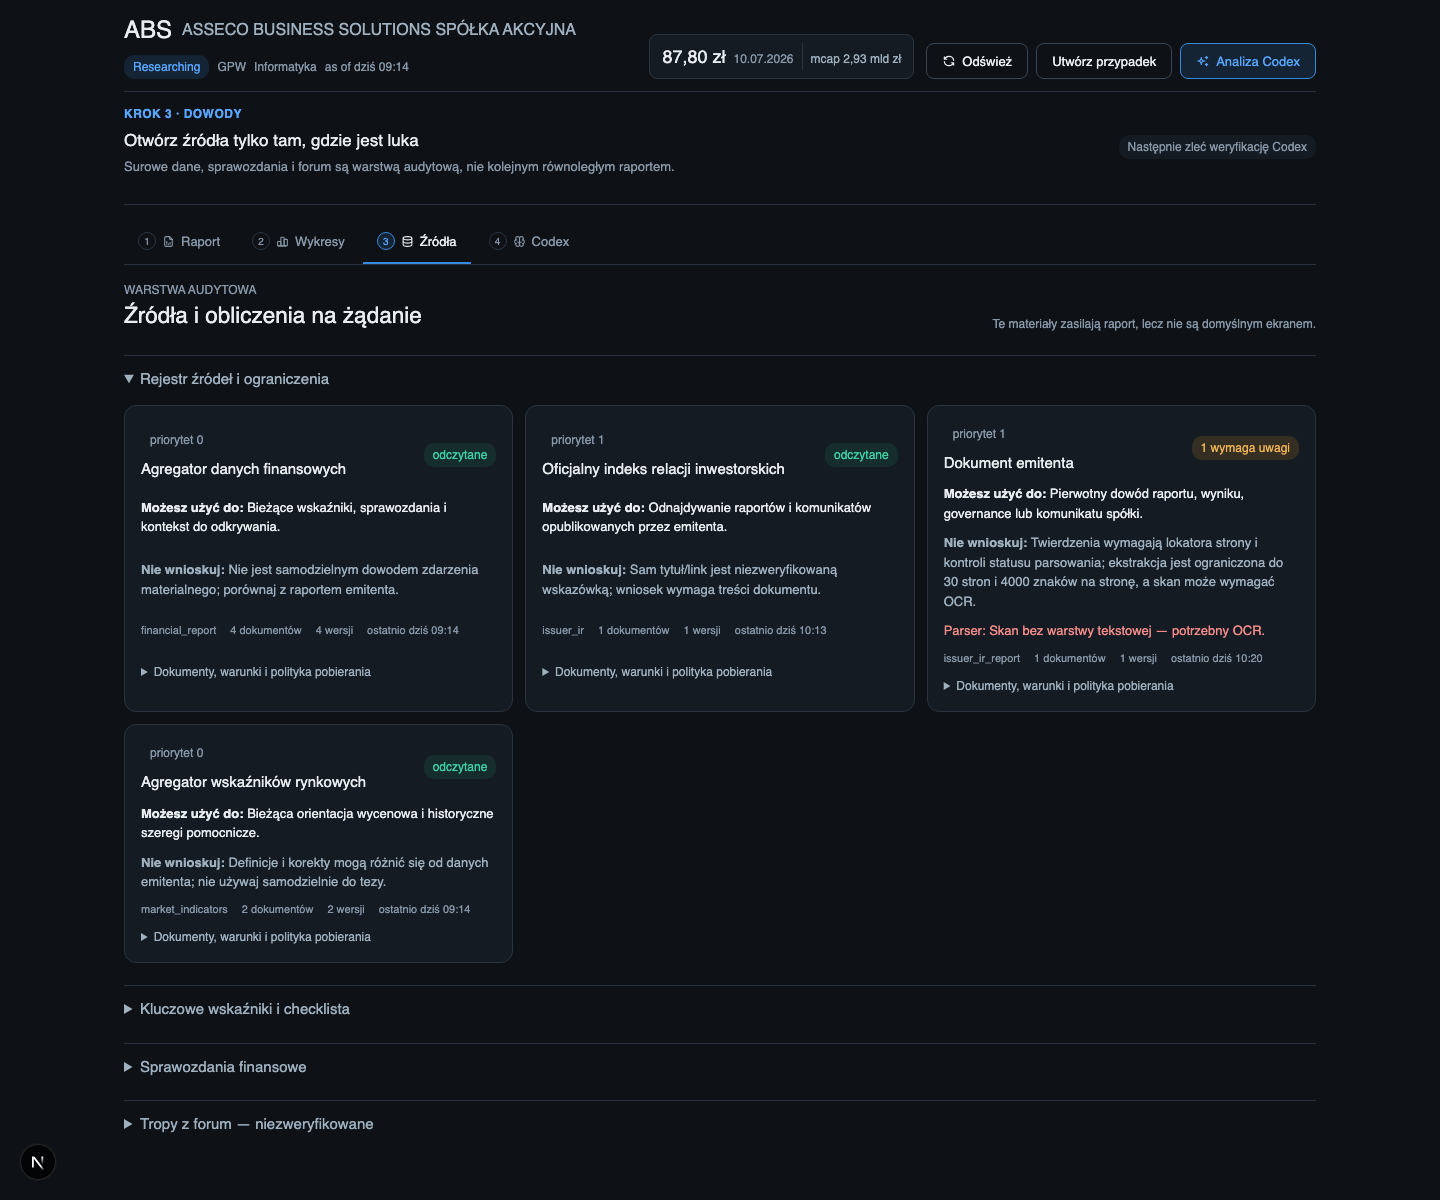
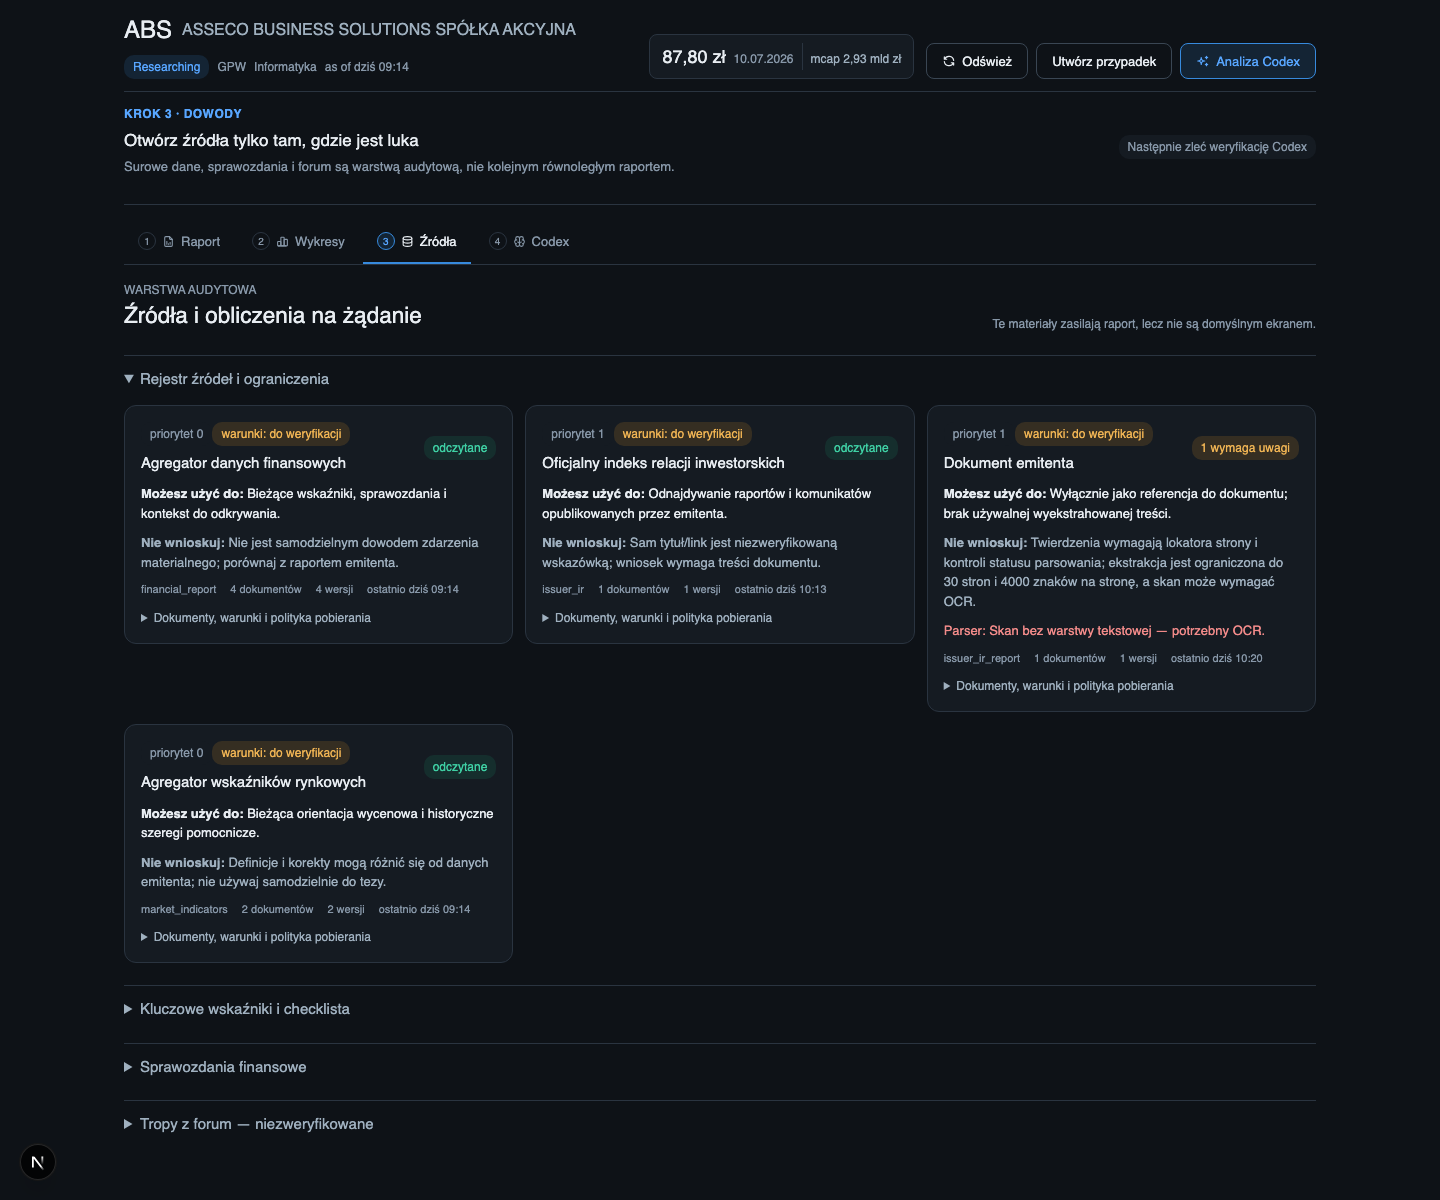
Close issuer evidence verifier gaps

diff --git a/frontend/src/components/EvidenceSourcesPanel.tsx b/frontend/src/components/EvidenceSourcesPanel.tsx
@@ -51,7 +51,7 @@ export default function EvidenceSourcesPanel({ ticker }: { ticker: string }) {
     <div className="evidence-source-grid">
       {groups.map(({ quality, documents }) => {
         const failedDocuments = documents.filter(
-          (document) => ["failed", "needs_ocr", "partial"].includes(document.latest_parse_status),
+          (document) => document.latest_parse_status !== "parsed",
         );
         const newest = [...documents].sort((left, right) =>
           (right.latest_version_at ?? "").localeCompare(left.latest_version_at ?? ""),
@@ -61,6 +61,7 @@ export default function EvidenceSourcesPanel({ ticker }: { ticker: string }) {
             <div className="spread">
               <div>
                 <span className="badge muted">priorytet {quality.priority ?? "?"}</span>
+                <span className="badge warning">warunki: do weryfikacji</span>
                 <h3>{quality.label}</h3>
               </div>
               <span className={failedDocuments.length ? "badge warning" : "badge success"}>

diff --git a/backend/tests/test_issuer_ir.py b/backend/tests/test_issuer_ir.py
@@ -10,6 +10,7 @@ def public_issuer_hosts(monkeypatch):
     from app.scrapers import issuer_ir
 
     monkeypatch.setattr(issuer_ir, "_host_resolves_public", lambda _url: True)
+    monkeypatch.setattr(issuer_ir, "_peer_is_public", lambda _response: True)
 
 
 def _seed_report_link(db, report_url: str):
@@ -536,3 +537,98 @@ def test_unrelated_source_fact_cannot_authorize_report_fetch(db):
 
     with pytest.raises(ValueError, match="not present"):
         issuer_ir.ingest_issuer_ir_report(db, "ABS", report_url)
+
+
+def test_wrong_issuer_scope_cannot_authorize_report_fetch(db):
+    from app.db.models import Company
+    from app.scrapers import issuer_ir
+    from app.services import evidence
+
+    report_url = "https://assecobs.pl/reports/wrong-scope.pdf"
+    company = Company(ticker="ABS", name="ASSECO BUSINESS SOLUTIONS SA")
+    db.add(company)
+    db.flush()
+    wrong_scope = evidence.record_document_version(
+        db,
+        company,
+        source_name="ABS issuer IR",
+        source_type="issuer_ir",
+        scope_key="other-index",
+        requested_url=issuer_ir.ISSUER_IR_SOURCES["ABS"],
+        effective_url=issuer_ir.ISSUER_IR_SOURCES["ABS"],
+        content=b"wrong scope",
+        text="wrong scope",
+        response_status=200,
+        mime_type="text/html",
+    )
+    evidence.mark_parse_result(wrong_scope.version, success=True)
+    evidence.record_text_fact(
+        db,
+        company,
+        wrong_scope.version,
+        fact_type="issuer_ir_link",
+        fact_key="issuer_ir.periodic_report.wrong_scope",
+        text="Wrong scope",
+        locator={"url": report_url},
+        verification_state="unverified",
+        extractor_version=issuer_ir.EXTRACTOR_VERSION,
+    )
+    db.commit()
+
+    with pytest.raises(ValueError, match="not present"):
+        issuer_ir.ingest_issuer_ir_report(db, "ABS", report_url)
+
+
+def test_forced_reprocessing_does_not_downgrade_parsed_version(db, monkeypatch):
+    from app.db.models import DocumentVersion
+    from app.scrapers import issuer_ir
+
+    report_url = "https://assecobs.pl/reports/stable.pdf"
+    _seed_report_link(db, report_url)
+    response = FakeResponse("", 200)
+    response.url = report_url
+    response.content = b"%PDF-stable"
+    monkeypatch.setattr(issuer_ir.http, "fetch", lambda _url, **_kwargs: response)
+    monkeypatch.setattr(issuer_ir, "extract_pdf_pages", lambda _content: ["Stable claim"])
+    first = issuer_ir.ingest_issuer_ir_report(db, "ABS", report_url)
+    version = db.get(DocumentVersion, first["document_version_id"])
+    assert version.parse_status == "parsed"
+    original_parser = version.parser_version
+
+    monkeypatch.setattr(issuer_ir, "extract_pdf_pages", lambda _content: [""])
+    second = issuer_ir.ingest_issuer_ir_report(db, "ABS", report_url, force=True)
+
+    db.refresh(version)
+    assert second["status"] == "cached"
+    assert version.parse_status == "parsed"
+    assert version.parser_version == original_parser
+
+
+def test_actual_loopback_peer_is_rejected_before_body_read(db, monkeypatch):
+    from app.scrapers import issuer_ir
+
+    report_url = "https://assecobs.pl/reports/rebound.pdf"
+    _seed_report_link(db, report_url)
+    response = FakeResponse("", 200)
+    response.url = report_url
+    body_read = []
+    response.iter_content = lambda **_kwargs: body_read.append(True) or iter((b"%PDF",))
+    monkeypatch.setattr(issuer_ir.http, "fetch", lambda _url, **_kwargs: response)
+    monkeypatch.setattr(issuer_ir, "_peer_is_public", lambda _response: False)
+
+    result = issuer_ir.ingest_issuer_ir_report(db, "ABS", report_url)
+
+    assert result["status"] == "rejected"
+    assert "peer" in result["error"].lower()
+    assert body_read == []
+
+
+def test_network_target_checks_reject_private_or_mixed_addresses():
+    from app.scrapers import issuer_ir
+
+    assert issuer_ir._addresses_are_public({"8.8.8.8", "127.0.0.1"}) is False
+    assert issuer_ir._addresses_are_public({"169.254.1.1"}) is False
+    assert issuer_ir._addresses_are_public({"8.8.8.8"}) is True
+
+    assert issuer_ir._address_is_public("127.0.0.1") is False
+    assert issuer_ir._address_is_public("8.8.8.8") is True

diff --git a/backend/app/scrapers/issuer_ir.py b/backend/app/scrapers/issuer_ir.py
@@ -346,6 +346,15 @@ def ingest_issuer_ir_report(
         fetched_at=fetch_log.fetched_at,
     )
     recorded.document.title = source_fact.text_value
+    if not recorded.version_created and recorded.version.parse_status != "pending":
+        fetch_log.document_version_id = recorded.version.id
+        db.commit()
+        return _report_version_result(
+            ticker,
+            report_url,
+            recorded.document,
+            recorded.version,
+        )
     if parse_error is not None:
         mark_parse_result(recorded.version, success=False, error=parse_error[:1000])
         fetch_log.document_version_id = recorded.version.id
@@ -441,6 +450,9 @@ def _issuer_link_fact(db: Session, company: Company, report_url: str) -> Fact | 
             Fact.extractor_version == EXTRACTOR_VERSION,
             DocumentVersion.parse_status == "parsed",
             SourceDocument.source_type == "issuer_ir",
+            SourceDocument.scope_key == "reports-index",
+            SourceDocument.company_id == company.id,
+            SourceDocument.company_ticker == company.ticker,
         )
     ).all()
     return next(
@@ -483,7 +495,15 @@ def _host_resolves_public(url: str) -> bool:
         }
     except socket.gaierror:
         return False
-    return bool(addresses) and all(ipaddress.ip_address(value).is_global for value in addresses)
+    return _addresses_are_public(addresses)
+
+
+def _addresses_are_public(addresses: set[str]) -> bool:
+    return bool(addresses) and all(_address_is_public(value) for value in addresses)
+
+
+def _address_is_public(value: str) -> bool:
+    return ipaddress.ip_address(value).is_global
 
 
 def _fetch_report_response(ticker: str, report_url: str) -> tuple[requests.Response, str]:
@@ -494,6 +514,9 @@ def _fetch_report_response(ticker: str, report_url: str) -> tuple[requests.Respo
         if not _host_resolves_public(current_url):
             raise ValueError("Registered issuer-IR host did not resolve only to public addresses.")
         response = http.fetch(current_url, allow_redirects=False, stream=True)
+        if not _peer_is_public(response):
+            response.close()
+            raise ValueError("Issuer report connection peer is not a public address.")
         if response.status_code not in REDIRECT_STATUSES:
             return response, current_url
         location = response.headers.get("location")
@@ -502,6 +525,16 @@ def _fetch_report_response(ticker: str, report_url: str) -> tuple[requests.Respo
             raise ValueError("Issuer report redirect did not include a Location header.")
         current_url = urljoin(current_url, location)
     raise ValueError(f"Issuer report exceeded {MAX_REDIRECTS} redirects.")
+
+
+def _peer_is_public(response: requests.Response) -> bool:
+    """Validate the connected socket, not only a pre-request DNS answer."""
+    try:
+        connection = response.raw._connection  # requests/urllib3 transport state
+        peer = connection.sock.getpeername()[0]
+    except (AttributeError, OSError, TypeError):
+        return False
+    return _address_is_public(peer)
 
 
 def _read_bounded_content(response: requests.Response) -> bytes:
@@ -547,6 +580,15 @@ def _cached_report_result(
     )
     if version is None:
         return None
+    return _report_version_result(ticker, report_url, document, version)
+
+
+def _report_version_result(
+    ticker: str,
+    report_url: str,
+    document: SourceDocument,
+    version: DocumentVersion,
+) -> dict:
     statuses = {
         "parsed": (True, "cached"),
         "partial": (True, "cached_partial"),

diff --git a/backend/app/services/source_quality.py b/backend/app/services/source_quality.py
@@ -49,10 +49,10 @@ DEFAULT_SOURCE_QUALITY = {
 }
 
 
-def source_quality_note(source_type: str) -> dict:
+def source_quality_note(source_type: str, parse_status: str | None = None) -> dict:
     """Return a copy so API callers cannot mutate the registry."""
     note = SOURCE_QUALITY.get(source_type, DEFAULT_SOURCE_QUALITY)
-    return {
+    result = {
         **note,
         "terms_status": "review_required",
         "terms_note": (
@@ -61,3 +61,12 @@ def source_quality_note(source_type: str) -> dict:
         ),
         "rate_policy": "Wspólny klient HTTP: limity per domena, jitter, backoff i cache.",
     }
+    if source_type == "issuer_ir_report" and parse_status in {"failed", "needs_ocr", "pending", "missing"}:
+        result["allowed_use"] = (
+            "Wyłącznie jako referencja do dokumentu; brak używalnej wyekstrahowanej treści."
+        )
+    elif source_type == "issuer_ir_report" and parse_status == "partial":
+        result["allowed_use"] = (
+            "Częściowy dowód pierwotny wyłącznie w granicach zapisanych stron i lokatorów."
+        )
+    return result

diff --git a/backend/tests/test_evidence_ledger.py b/backend/tests/test_evidence_ledger.py
@@ -122,6 +122,14 @@ def test_record_document_version_reports_first_insert_and_identical_reuse(db):
     assert first.version.id == second.version.id
 
 
+def test_issuer_report_quality_depends_on_parse_state():
+    from app.services.source_quality import source_quality_note
+
+    assert "Pierwotny dowód" in source_quality_note("issuer_ir_report", "parsed")["allowed_use"]
+    assert "referencja" in source_quality_note("issuer_ir_report", "needs_ocr")["allowed_use"]
+    assert "Częściowy" in source_quality_note("issuer_ir_report", "partial")["allowed_use"]
+
+
 def test_changed_page_preserves_old_as_of_and_advances_serving_pointer(
     client, db, monkeypatch
 ):

diff --git a/backend/app/api/evidence.py b/backend/app/api/evidence.py
@@ -67,7 +67,10 @@ def list_documents(ticker: str, db: Session = Depends(get_db)) -> list[dict]:
                     latest_version.parse_status if latest_version else "missing"
                 ),
                 "latest_parse_error": latest_version.parse_error if latest_version else None,
-                "quality": source_quality_note(document.source_type),
+                "quality": source_quality_note(
+                    document.source_type,
+                    latest_version.parse_status if latest_version else "missing",
+                ),
             }
         )
     return result

diff --git a/backend/app/services/evidence.py b/backend/app/services/evidence.py
@@ -103,7 +103,6 @@ def record_document_version(
     document.last_fetched_at = fetched_at
     document.latest_content_hash = content_hash
     document.mime_type = mime_type
-    document.parser_version = parser_version
     document.last_fetch_status = response_status
 
     version = db.scalar(
@@ -138,6 +137,9 @@ def record_document_version(
             )
         )
     assert version is not None
+    # Re-fetching identical bytes must not claim they were parsed by a newer
+    # parser or mutate the immutable version's extraction state.
+    document.parser_version = parser_version if created else version.parser_version
     return RecordedDocument(document=document, version=version, version_created=created)
 
 

diff --git a/CHANGELOG.md b/CHANGELOG.md
@@ -42,11 +42,17 @@ raw-binary/object storage remain an explicit follow-up rather than an implicit
 host dependency.
 
 An independent verifier then hardened the published pilot: redirects are now
-manual and each hop is host/public-IP validated before any request; PDF bodies
+manual and each hop is host/public-IP validated before any request and against
+the connected peer address; PDF bodies
 stream with `Content-Length` and chunked hard stops; terminal HTTP errors are
 structured; cached failures preserve `needs_ocr`/`parse_failed`; and partial
 30-page/4000-character extraction is durable and visible. Only link facts from
 a successfully parsed issuer-index version may authorize a detail fetch.
+Reused immutable versions preserve their original parser and terminal status
+under forced refreshes, and authorization additionally requires the registered
+index scope/company identity. RT2.4 derives allowed use from parse health,
+treats every non-`parsed` document as requiring attention and surfaces the
+unverified terms status directly on each source card.
 
 ## 2026-07-11 · CX.16d honest cohort replay cards
 

diff --git a/docs/model-usage.md b/docs/model-usage.md
@@ -69,6 +69,8 @@ complete. The concrete host model must be reported honestly; a role such as
 | 2026-07-11 | RT2.3 issuer report detail | bounded PDF extraction, failure-state implementation and evidence review | orchestrator / verifier_strict | High-complexity: Sol | high | GPT-5 current Codex host; exact deployment not exposed | PDF and scraper-doctor skills applied; no separate delegation tool exposed; no model/provider call; OCR executables unavailable on host | Discovered-link allowlist, byte/page caps and page locators covered by tests; the one live ABS report persisted as version 22 with 13 scanned pages, `needs_ocr` and zero claims; malformed parse remains durable without stopping the worker |
 | 2026-07-11 | RT2.4 source-quality notes | API/frontend implementation, evidence-policy review and tests | orchestrator / verifier_strict | Default implementation: Terra | high | GPT-5 current Codex host; exact deployment not exposed | No escalation; deterministic registry only, no provider/model call | Source use/limitations and latest parser health exposed through API and grouped audit UI; terms remain honestly `review_required`; focused backend test and frontend type/build gate green |
 | 2026-07-11 | RT2.3 verifier hardening | security, bounded streaming, cache/provenance correction and regression tests | orchestrator / verifier_strict | High-complexity: Sol | high | GPT-5 current Codex host; exact deployment not exposed | Independent Noether verifier found post-publication SSRF, memory-bound, cache-state and provenance gaps; corrected immediately without escalation | Manual validated redirects, public-address gate, streamed byte cap, structured terminal errors, durable OCR/partial states and parsed-index authorization covered by focused and full backend tests; frontend build and runtime gate green |
+| 2026-07-11 | RT2.3/RT2.4 second verifier hardening | immutable-state, connected-peer, provenance and UI-trust correction | orchestrator / verifier_strict | High-complexity: Sol | high | GPT-5 current Codex host; exact deployment not exposed | Reused Noether verifier found forced-reparse mutation, DNS-rebinding residual and conditional-quality gaps after first hardening; corrected before RT2.5 | Identical content cannot downgrade a completed version; actual peer/private/mixed addresses and wrong scope are regression-tested; non-parsed issuer documents lose primary-proof wording and all non-parsed groups plus terms review are visible; full backend, clean frontend build and runtime gate green |
+| 2026-07-11 | CX.15f queue worker empty cycle | automation health, lease recovery and atomic claim | worker_standard | Testing/mechanical: GPT-5.3 | high | Current Codex host; exact deployment not exposed | No escalation, provider call, API key, source polling or analysis execution; no queued row existed to supply model metadata | Doctor green; no expired leases recovered; atomic claim returned an empty queue, so no verifier or saved analysis was required |
 
 ## Recording rules
 